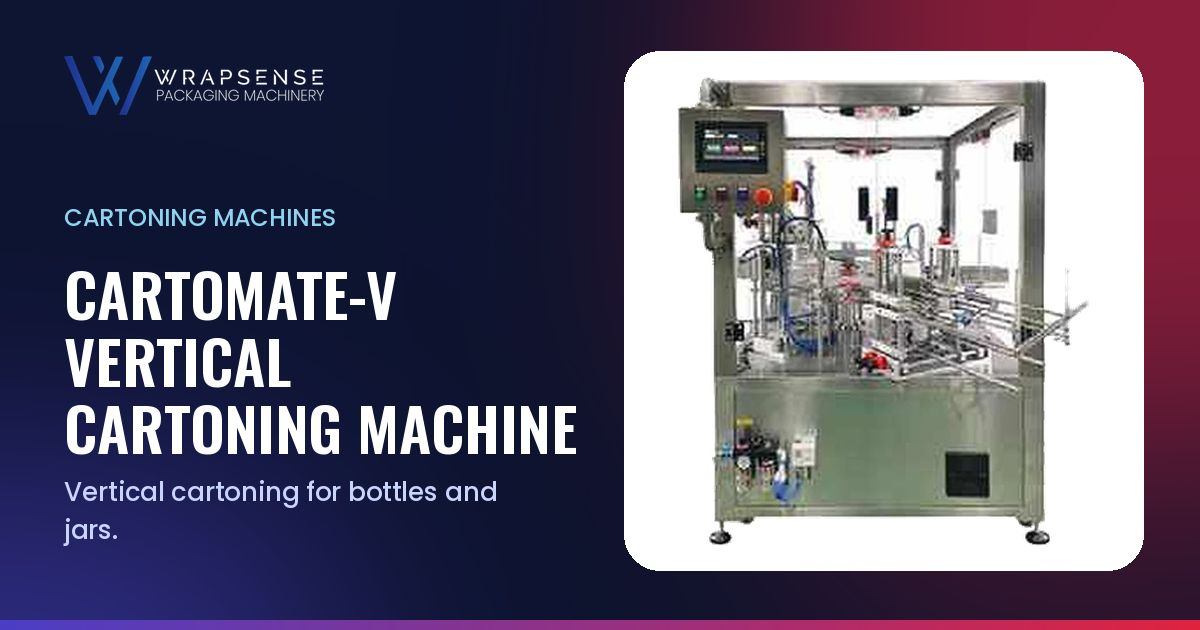
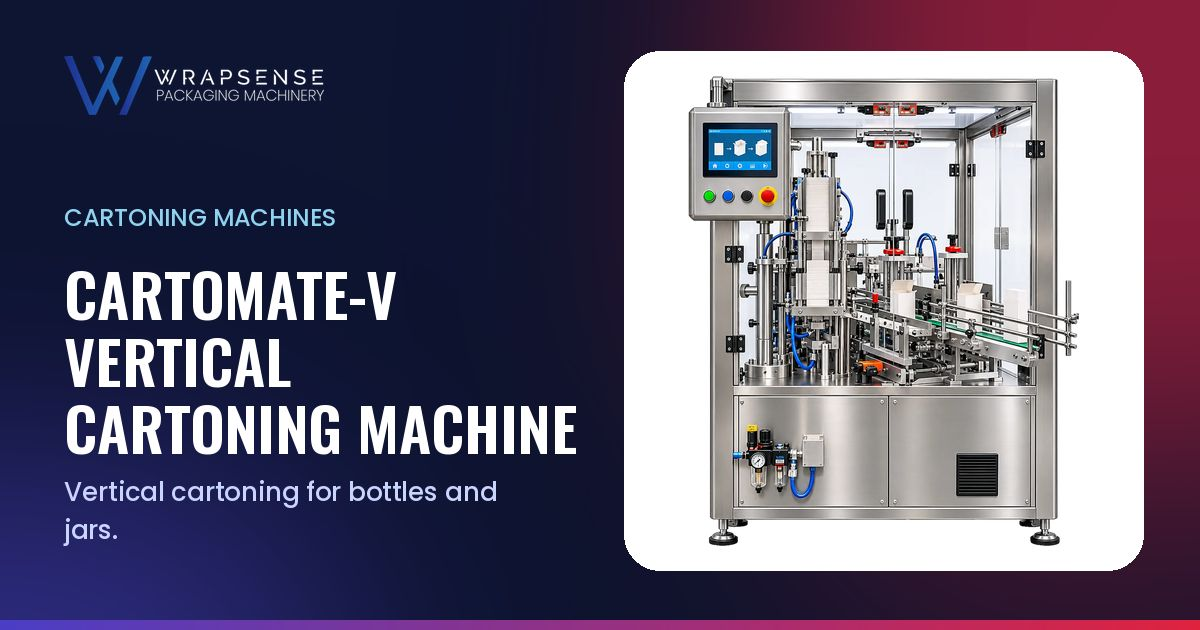
CartoMate-V: new render; blurry rotary photo removed
- New render cut out from white (outside background only, so the glass cabinet and its bright interior
  stay), WebP with alpha; same filename so all pages update; OG images regenerated
- Removed the tiny blurry cartoning-rotary photo from the gallery, deleted it and dropped it from the
  catalog extraction script

Claude-Session: https://claude.ai/code/session_01QFn2KCFGMPNr5c9DCf1rvZ

Changed region(s): [[0.555, 0.1206, 0.925, 0.8746]]

diff --git a/tools/extract-catalog-images.py b/tools/extract-catalog-images.py
@@ -39,7 +39,7 @@ MAP = {
   0:('photos','film-line','photo'), 3:('photos','filling-closeup','photo'), 4:('photos','technician','photo'),
   123:('photos','weigher-snacks','photo'), 125:('photos','weigher-install','photo'), 128:('photos','vffs-install','photo'),
   181:('photos','case-erector-action','photo'),
-  206:('photos','case-packing-action','photo'), 204:('photos','case-packing-line','photo'), 228:('photos','cartoning-rotary','photo'), 251:('photos','weigher-detail','photo'),
+  206:('photos','case-packing-action','photo'), 204:('photos','case-packing-line','photo'), 251:('photos','weigher-detail','photo'),
 }
 
 tmp = tempfile.mkdtemp()
